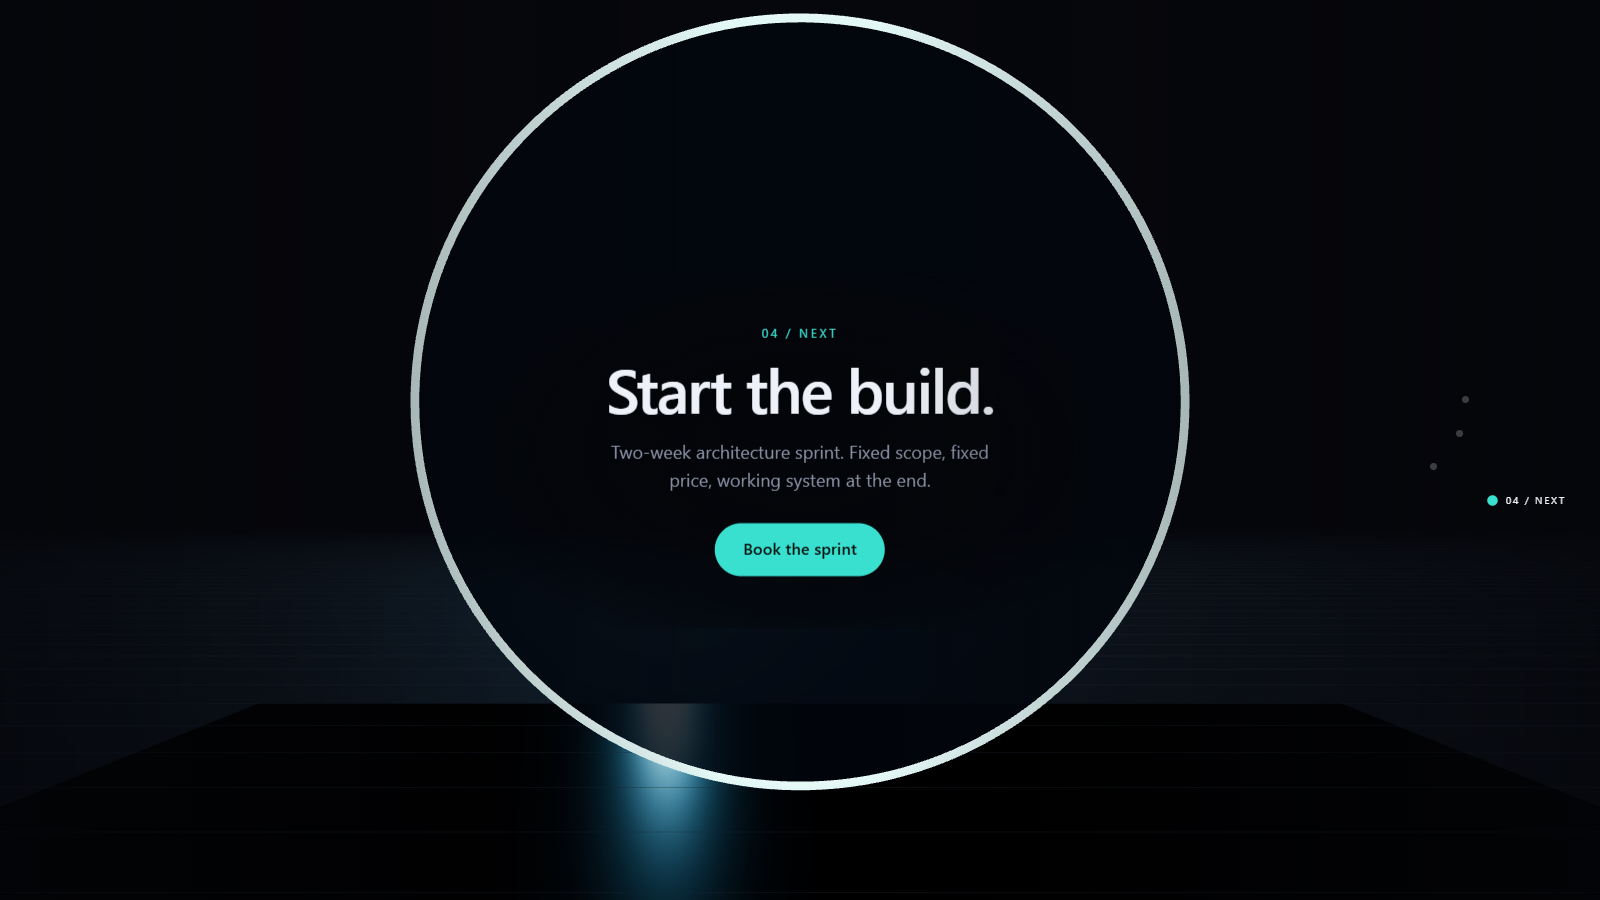
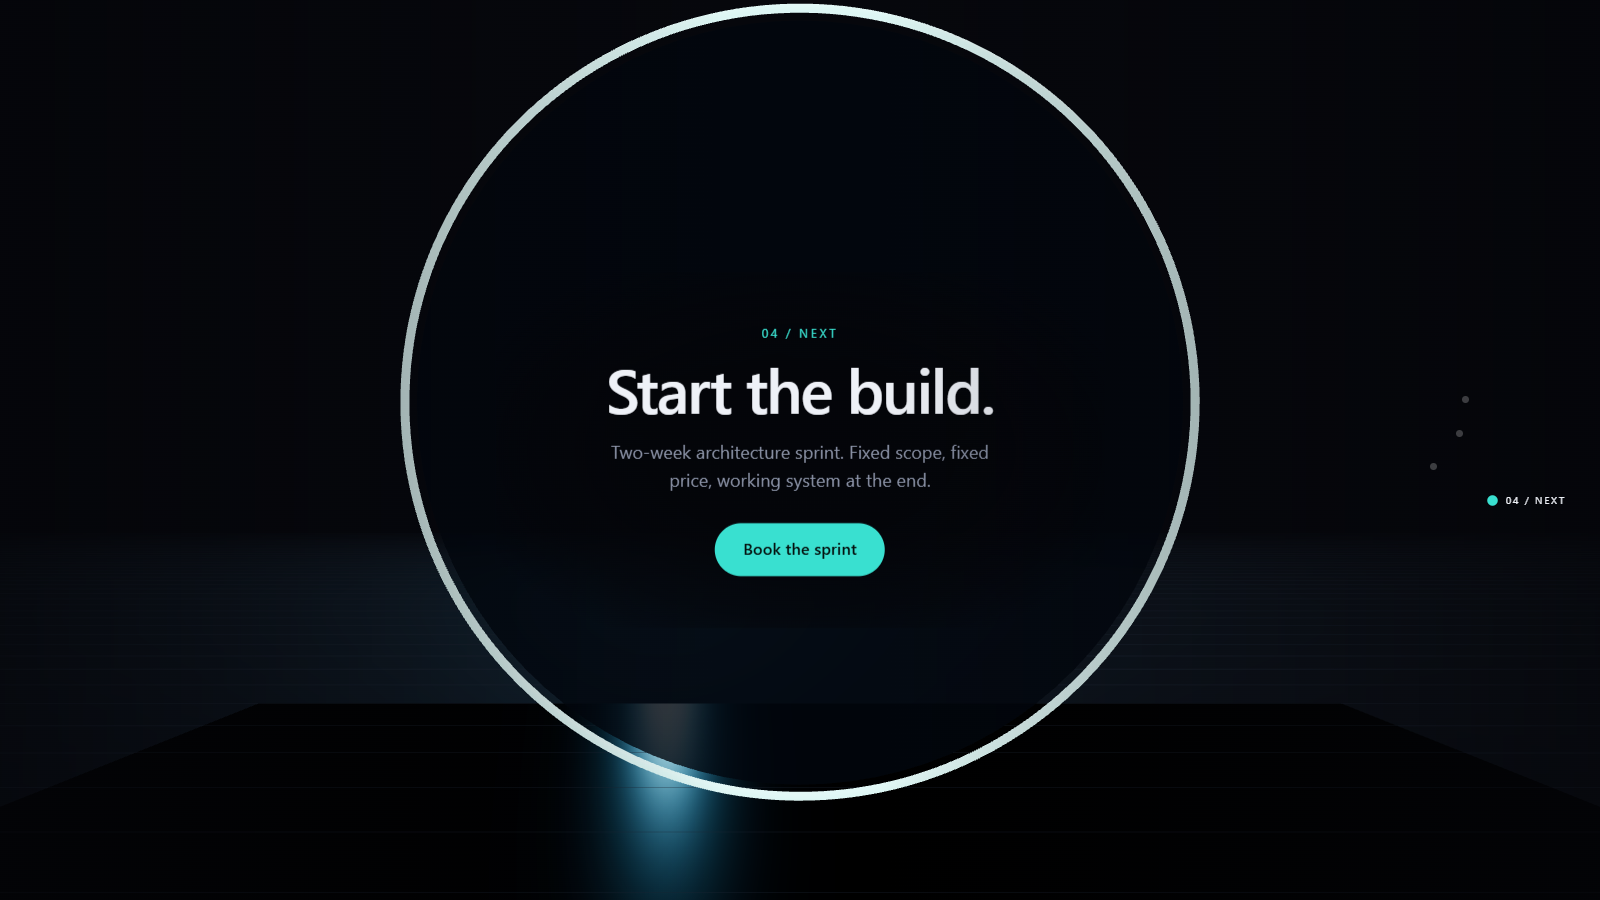
Make scene animation deterministic; fix two values that never converged
Chasing reproducible screenshots turned up three separate sources of drift, two
of which are plain bugs.

Seed the entry node's dust: it laid out 420 particles with Math.random(), so
every page load had a different starfield.

Give the scene a single clock. Each node kept its own `let t = 0; t += dt`
accumulator, so animation phase was wall-clock dependent and unaddressable.
world.js and mobile.js now own `elapsed` and pass it in the update state, and
freezeTime(t) pins it. scripts/shoot.mjs pins the clock before capturing.

camera-rig only wrote camera.fov when it differed from the damped value by more
than 0.001. The internal value converged but the applied one stalled short, at
whatever the frame timing left behind - two runs settled on 42.00065 and
42.00051 instead of 42. Write whenever it actually changed; updateProjectionMatrix
is cheap. Also epsilon-snap position and target the way ScrollEngine does.

story-ui had the same shape of bug: it skipped DOM writes under a 0.004 delta,
so a fully visible panel parked at 0.997 rather than 1. Coalesce mid-fade
writes but never skip the endpoints.

window.scrollWorld now also exposes camera and freezeTime, and the mobile
fallback exposes a matching hook so its capture can pin the clock too.

Residual capture variance is Chromium's own text antialiasing and gradient
dithering, which is invisible and not fixable from here.

Changed region(s): [[0.25, 0.0, 0.75, 0.7778], [0.3438, 0.7778, 0.6562, 0.9022]]

diff --git a/src/core/mobile.js b/src/core/mobile.js
@@ -123,6 +123,8 @@ export function mountMobile({ root, canvas, rail, dots, badge, webgl = true }) {
   let tween = 1
   let raf = 0
   let last = performance.now()
+  let elapsed = 0
+  let frozenAt = null
 
   function frameFor(i) {
     const n = config.nodes[i]
@@ -210,9 +212,17 @@ export function mountMobile({ root, canvas, rail, dots, badge, webgl = true }) {
     camera.position.copy(camPos)
     camera.lookAt(camTgt)
 
+    elapsed = frozenAt === null ? elapsed + dt : frozenAt
+
     const span = Math.max(built.length - 1, 1)
     built.forEach((n, i) =>
-      n.update(dt, { progress: index / span, localP: i === index ? 1 : 0, travel: 0, active: i === index })
+      n.update(dt, {
+        elapsed,
+        progress: index / span,
+        localP: i === index ? 1 : 0,
+        travel: 0,
+        active: i === index
+      })
     )
     renderer.render(scene, camera)
   }
@@ -220,9 +230,21 @@ export function mountMobile({ root, canvas, rail, dots, badge, webgl = true }) {
 
   window.addEventListener('resize', applyViewport)
 
+  window.scrollWorld = {
+    mode: 'mobile',
+    seek: i => cards[i]?.scrollIntoView({ behavior: 'smooth', inline: 'center', block: 'nearest' }),
+    freezeTime: t => {
+      frozenAt = t
+    },
+    release: () => {
+      frozenAt = null
+    }
+  }
+
   return function unmount() {
     cancelAnimationFrame(raf)
     observer.disconnect()
+    delete window.scrollWorld
     window.removeEventListener('resize', applyViewport)
     built.forEach(n => {
       worldRoot.remove(n.group)

diff --git a/src/core/camera-rig.js b/src/core/camera-rig.js
@@ -6,6 +6,10 @@ export function createCameraRig({ near, far }, opts = {}) {
   const pos = new Vector3()
   const tgt = new Vector3()
   const lambda = opts.lambda ?? 14
+  // Collapse the tail of the damping to exact equality, the same way
+  // ScrollEngine does. Without it the rig only ever approaches its target, so a
+  // settled camera still differs by a hair between runs.
+  const epsilonSq = (opts.epsilon ?? 1e-4) ** 2
   let fov = 55
   let primed = false
 
@@ -23,11 +27,18 @@ export function createCameraRig({ near, far }, opts = {}) {
       tgt.y = damp(tgt.y, sample.target.y, lambda, dt)
       tgt.z = damp(tgt.z, sample.target.z, lambda, dt)
       fov = damp(fov, sample.fov, lambda, dt)
+
+      if (pos.distanceToSquared(sample.position) < epsilonSq) pos.copy(sample.position)
+      if (tgt.distanceToSquared(sample.target) < epsilonSq) tgt.copy(sample.target)
+      if (Math.abs(fov - sample.fov) < 1e-4) fov = sample.fov
     }
 
     camera.position.copy(pos)
     camera.lookAt(tgt)
-    if (Math.abs(camera.fov - fov) > 0.001) {
+    // Guarding this write on a tolerance leaves camera.fov stalled short of the
+    // target at a frame-timing-dependent value; updateProjectionMatrix is cheap
+    // enough to just write whenever it actually changed.
+    if (camera.fov !== fov) {
       camera.fov = fov
       camera.updateProjectionMatrix()
     }

diff --git a/src/nodes/entry.js b/src/nodes/entry.js
@@ -3,6 +3,7 @@ import {
   MeshStandardMaterial, Points, PointsMaterial, TorusGeometry
 } from 'three'
 import { palette } from '../scroll-world.config.js'
+import { createRandom } from '../core/math.js'
 
 export function createEntryNode(zone) {
   const group = new Group()
@@ -36,11 +37,12 @@ export function createEntryNode(zone) {
   group.add(halo)
 
   const count = 420
+  const rand = createRandom(0x5c0117)
   const arr = new Float32Array(count * 3)
   for (let i = 0; i < count; i++) {
-    arr[i * 3] = (Math.random() - 0.5) * 90
-    arr[i * 3 + 1] = Math.random() * 34
-    arr[i * 3 + 2] = (Math.random() - 0.5) * 90
+    arr[i * 3] = (rand() - 0.5) * 90
+    arr[i * 3 + 1] = rand() * 34
+    arr[i * 3 + 2] = (rand() - 0.5) * 90
   }
   const motes = new BufferGeometry()
   motes.setAttribute('position', new Float32BufferAttribute(arr, 3))
@@ -50,13 +52,12 @@ export function createEntryNode(zone) {
   )
   group.add(dust)
 
-  let t = 0
   return {
     id: 'entry',
     group,
     interactive: [],
     update(dt, state) {
-      t += dt
+      const t = state.elapsed
       halo.rotation.z = t * 0.15
       halo.scale.setScalar(1 + Math.sin(t * 0.7) * 0.02)
       dust.rotation.y = t * 0.012

diff --git a/src/core/world.js b/src/core/world.js
@@ -98,12 +98,18 @@ export function createWorld(canvas) {
   resize()
   window.addEventListener('resize', resize)
 
+  let elapsed = 0
+  let frozenAt = null
+
   function render(sample, dt) {
     rig.apply(sample, dt)
+
+    elapsed = frozenAt === null ? elapsed + dt : frozenAt
 
     const activeNode = config.nodes[sample.node]
     nodes.forEach((node, i) => {
       node.update(dt, {
+        elapsed,
         progress: sample.progress,
         localP: i === sample.node ? sample.localP : 0,
         travel: sample.travel,
@@ -132,6 +138,10 @@ export function createWorld(canvas) {
     hoverListener = fn
   }
 
+  function freezeTime(t) {
+    frozenAt = t
+  }
+
   function dispose() {
     window.removeEventListener('resize', resize)
     canvas.removeEventListener('pointermove', onPointerMove)
@@ -147,6 +157,6 @@ export function createWorld(canvas) {
     renderer.dispose()
   }
 
-  return { render, resize, dispose, onHover, camera: rig.camera, scene, renderer }
+  return { render, resize, dispose, onHover, freezeTime, camera: rig.camera, scene, renderer }
 }
 

diff --git a/src/core/story-ui.js b/src/core/story-ui.js
@@ -65,7 +65,12 @@ export function createStoryUI({ story, beacons, onSeek }) {
   function update(sample, panelOpacity) {
     for (const p of panels) {
       const o = panelOpacity(p.index, sample)
-      if (Math.abs(o - p.opacity) < 0.004) continue
+      // Coalesce mid-fade writes, but never skip the endpoints: a pure delta
+      // threshold leaves a panel parked at 0.997 instead of 1, at whatever
+      // value the frame timing happened to land on.
+      const settled = o === 0 || o === 1
+      if (!settled && Math.abs(o - p.opacity) < 0.004) continue
+      if (o === p.opacity) continue
       p.opacity = o
       p.el.style.opacity = o.toFixed(3)
       p.el.style.transform = `translate3d(0, ${((1 - o) * 22).toFixed(2)}px, 0)`

diff --git a/src/nodes/architecture.js b/src/nodes/architecture.js
@@ -50,7 +50,6 @@ export function createArchitectureNode(zone) {
   const scaleVec = new Vector3()
   const cur = new Color()
   let hovered = -1
-  let t = 0
 
   return {
     id: 'architecture',
@@ -68,7 +67,7 @@ export function createArchitectureNode(zone) {
     },
     hoveredModule: () => (hovered >= 0 ? MODULES[hovered] : null),
     update(dt, state) {
-      t += dt
+      const t = state.elapsed
       lineMat.opacity = 0.3 + (state.active ? state.localP * 0.45 : 0.05)
       MODULES.forEach((m, i) => {
         const bob = Math.sin(t * 0.8 + i) * 0.22

diff --git a/src/core/math.js b/src/core/math.js
@@ -7,6 +7,17 @@ export const damp = (current, target, lambda, dt) => lerp(current, target, 1 - M
 
 export const frameRate = (k, dt) => 1 - Math.pow(1 - k, dt * 60)
 
+export function createRandom(seed = 1) {
+  let a = seed >>> 0
+  return () => {
+    a = (a + 0x6d2b79f5) >>> 0
+    let t = a
+    t = Math.imul(t ^ (t >>> 15), t | 1)
+    t ^= t + Math.imul(t ^ (t >>> 7), t | 61)
+    return ((t ^ (t >>> 14)) >>> 0) / 4294967296
+  }
+}
+
 export const easings = {
   linear: t => t,
   outCubic: t => 1 - Math.pow(1 - t, 3),

diff --git a/src/main.js b/src/main.js
@@ -47,11 +47,17 @@ function mountDesktop() {
   window.addEventListener('resize', onResize)
 
   window.scrollWorld = {
+    mode: 'desktop',
     engine,
     trajectory,
+    camera: world.camera,
     seekNode: i => engine.scrollToProgress(trajectory.progressForNode(i)),
     preview: p => engine.setOverride(p),
-    release: () => engine.setOverride(null)
+    freezeTime: t => world.freezeTime(t),
+    release: () => {
+      engine.setOverride(null)
+      world.freezeTime(null)
+    }
   }
 
   return () => {

diff --git a/src/nodes/diorama.js b/src/nodes/diorama.js
@@ -45,13 +45,12 @@ export function createDioramaNode(zone) {
     return { mesh, cap, spec: s }
   })
 
-  let t = 0
   return {
     id: 'diorama',
     group,
     interactive: [],
     update(dt, state) {
-      t += dt
+      const t = state.elapsed
       group.rotation.y = state.progress * 0.8 + Math.sin(t * 0.12) * 0.06
       blocks.forEach((b, i) => {
         const phase = Math.sin(t * 0.9 + i * 1.3)

diff --git a/src/nodes/cta.js b/src/nodes/cta.js
@@ -34,13 +34,12 @@ export function createCtaNode(zone) {
   reflect.position.y = 0.02
   group.add(reflect)
 
-  let t = 0
   return {
     id: 'cta',
     group,
     interactive: [],
     update(dt, state) {
-      t += dt
+      const t = state.elapsed
       portal.rotation.z = t * 0.08
       const pulse = 1 + Math.sin(t * 1.4) * 0.015
       portal.scale.setScalar(pulse)
